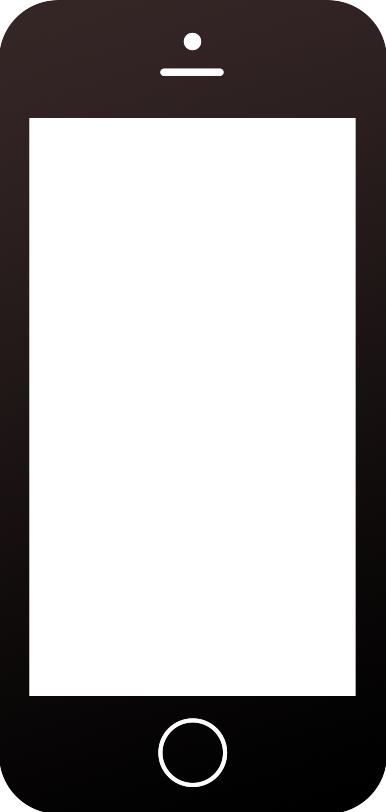
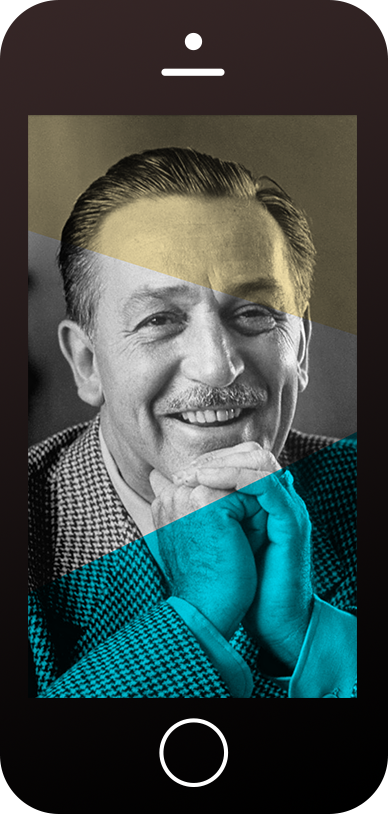
Make Phone and forms

diff --git a/css/styles.css b/css/styles.css
@@ -29,11 +29,29 @@ body {
 
 
 /* */
+
+#logo {
+	background: #e94643;
+	height: 80px;
+	line-height: 40px;
+	width: 50%;
+	color: #fff;
+	
+	float: left;
+}
+
+#logo > h2{
+	margin-left: 20%;
+
+}
 #primary-menu {
 
 	background: #e94643;
 	height: 80px;
 	line-height: 80px;
+	width: 50%;
+	
+	float: left;
 
 }
 
@@ -64,22 +82,21 @@ body {
 }
 
 
-#body1 {
-	height: 1100px;
-}
+
 
 #phone-text {
 	background: #ef5350;
 	background-size: 100%;
 	height: 500px;
+	background-image: url(images/greenpart.png);
 	
 }
 
 #phone {
-	width: 50%;
+	width: 40%;
 	
 	float: left;
-	margin-left: 0px;
+	margin-left: 10%;
 
 
 
@@ -95,10 +112,11 @@ body {
 	float: right;
 	vertical-align: left;
 	margin-right: 15%;
+	margin-top: 5%;
 
 
 }
-#header2 {
+#main_text {
 
 	font-size: 40;
 }
@@ -108,11 +126,12 @@ body {
 	border-radius:  10px;
 	color :fff;
 	width: 170px;
+	margin-top: 8%;
 }
 
 #white-part{
 	background: white;
-	height: 600px;
+	height: 400px;
 }
 
 
@@ -124,31 +143,67 @@ body {
 }
 
 #forms {
+	color:ffa9a2;
 
 	width: 50%;
 	
 	float: left;
-	border: 9;
+	 
+	
 
 }
 
-#form_small{
-	border: 90px;
+
+#first {
+	width: 300px;
+	height: 40px;
+	margin: 10px;
+	border: 3px solid #e3f2fd; /* Исходная рамка вокруг поля */
+	background-color: #fff;
+	float: left;
+	
+}
+#second {
+
+	width: 300px;
+	height: 40px;
+	margin: 10px;
+	border: 3px solid #e3f2fd;
+	margin-right: 15%;
+	background-color: #fff;
+	
+	
+	float: left;
+	
+}
+
+#query{
+
+	height:100px;
+	width: 620px;
+	border: 3px solid #e3f2fd;
+	margin: 10px;
+	background-color: #fff;
+}
+#button_send{
+
+	background: #ef5350;
+	border-radius:  10px;
+	color :fff;
+	width: 170px;
+	margin-right: 20%;
+
 }
 
 #footer {
 	background: #fefcf2;
-	height: 50px;
+	height: auto;
 	min-height: calc(100vh-50px);
-	line-height: 50px
+	line-height: 50px;
 	
 
 }
-#footer > ul >li {
-	padding: 0 300;
-	display: inline-block;
-	list-style: none;
-}
+
 
 #copyright {
 
@@ -156,5 +211,6 @@ body {
 	
 	float: left;
 	margin-left: 200px;
+	background: #fefcf2;
 }
 

diff --git a/index.html b/index.html
@@ -14,7 +14,7 @@
 
 		<header id ="header">
 					<div id = "primary-menu1"></div>
-			<div id= "logo"	> 
+			<div id= "logo"	> <h2>Indipixel</h2>
 
 			</div>
 
@@ -34,13 +34,15 @@
 	<div id="phone-text" ALIGN="JUSTIFY">
 	
 	<div id="phone"> 
-	<p><img src="images/phone.png" width= 300 height= 300></p>
+	
+	<p><img src="images/phone.png" width= auto height= auto></p>
+
 
 
 
 	</div>	
 	<div id = "text" >
-	<div id = "header2" style="text-align : left">WED DESIGN AND BUILD BEAUTIFUL WEB & MOBILE APPS</div><br>
+	<div id = "main_text" style="text-align : left">WED DESIGN AND BUILD BEAUTIFUL WEB & MOBILE APPS</div><br>
 
 	<div>You can design and create, and build the most wonderful place in the world. But it takes people to make dream a reality. -Walt Disney</div>
 
@@ -53,19 +55,22 @@
 
 	<div id= "white-part">
 	<div id = "nothing">
-	nothing
+	<h6> </h6>
 		
 
 
 	</div>
 
 	<div id = "forms">
-		<h3 style="color:ffa9a2">Lets Talk</h3>
+		<h3 ><p style="color:ffa9a2;margin: 10px">Lets Talk</p> </h3>
 		<div id = "form_small">
-		 <p><input type=search placeholder="First Name"></p>
-		 <p><input type=search placeholder="Last Name"></p>
-		 <p><input type=search placeholder="Email Address"></p>
-		 <p><input type=search placeholder="App Design"></p>
+		 <p ><input id = "first" type=search placeholder="First Name"></p>
+		 <p ><input id = "second"type=search placeholder="Last Name"></p>
+		 <p ><input id = "first" type=search placeholder="Email Address"></p>
+		 <p ><input id = "second" type=search placeholder="App Design"></p>
+		 <p ><input id = "query"  type=search placeholder="Type your quere here"></p>
+		 <p style="text-align: right"><button id = "button_send"><h3>  SEND </h3></button>
+
 		 </div>
 
 
@@ -80,7 +85,7 @@
 	</div>
 	<footer id = "footer">
 		<div id = "copyright">© 2016 indipixel design</div>
-		<div id = "mail"> contact@yourmail.com</div>
+		<div id = "mail"><a href="mailto:balantaev@outlook.com"><img src="images/mail.png" width= 20 height= 20> contact@yourmail.com</a></div>
 		</ul>
 	</footer>
 		
